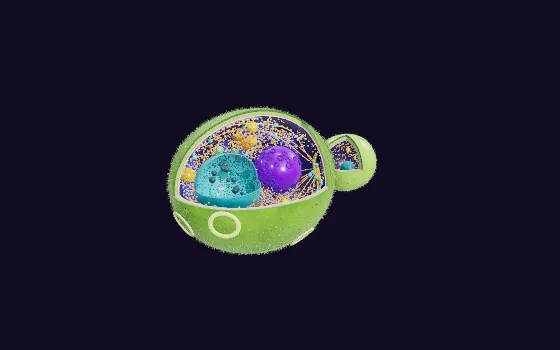
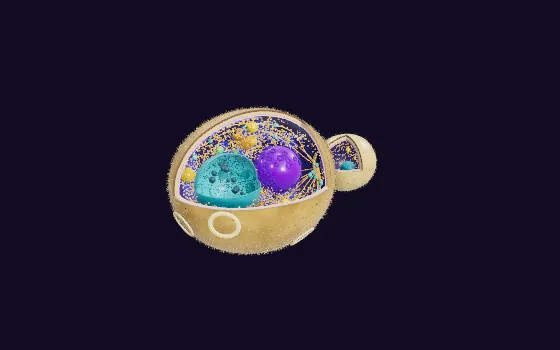
3D celice: bež stena kvasovke (gliva ne fotosintetizira), močnejše telo nevrona
Claude-Session: https://claude.ai/code/session_01SUDXUF91UxdHkHkcmruf3g

Changed region(s): [[0.3036, 0.2857, 0.6679, 0.7429]]

diff --git a/public/3d/modeli/celice/kvasovka.js b/public/3d/modeli/celice/kvasovka.js
@@ -217,7 +217,9 @@ export function zgradi(THREE, ctx = {}) {
 
   // ---------- matična celica: stena, membrana, citoplazma ----------
   const P0 = profMati(0);
-  const stc = new THREE.Color(), st1 = new THREE.Color(B.stena).lerp(new THREE.Color(B.stenaTemna), 0.3), st2 = new THREE.Color(B.stenaTemna).multiplyScalar(0.85);
+  // gliva: stena iz glukanov in hitina je bež (ne zelena kot pri rastlinah, ki fotosintetizirajo)
+  const STENA = "#d2ad6e", STENA_T = "#8f6a36";
+  const stc = new THREE.Color(), st1 = new THREE.Color(STENA), st2 = new THREE.Color(STENA_T);
   const barvaSt = (v) => stc.copy(st1).lerp(st2, 0.5 + 0.5 * fbm(v.x * 14, v.y * 14, v.z * 14));
   const stenaMat = mat(0xffffff, { vertexColors: true, roughness: 0.42, clearcoat: 0.7, sheen: 0.5 });
   const rezMat = mat(0xffffff, { vertexColors: true, roughness: 0.55, clearcoat: 0.45, side: THREE.DoubleSide });
@@ -226,7 +228,7 @@ export function zgradi(THREE, ctx = {}) {
   memMat.userData.rez = true;
   // prerez po plasteh: stena (zunaj manoproteini, znotraj glukani s hitinom) in membrana (lipidni dvosloj)
   const plasti = (PP, meje, barve, rI = n1) => zdruzi(meje.slice(0, -1).map((a, i) => vrtRez(PP, nK, rI, a, meje[i + 1], sumF)), barve);
-  const stenaRez = (PP, k = 1, rI = n1) => plasti(PP, [0, 0.009 * k, 0.0115 * k, (ZS - 0.0015) * k, ZS * k], [0x3f6b14, 0x2c4d0c, 0x8cc63f, 0x4f7f1c], rI);
+  const stenaRez = (PP, k = 1, rI = n1) => plasti(PP, [0, 0.009 * k, 0.0115 * k, (ZS - 0.0015) * k, ZS * k], [0x6e4a20, 0x4f3414, 0xdcbb7c, 0x8c6430], rI);
   const memRez = (PP, k = 1, rI = n1) => plasti(PP, [ZS * k, (ZS + 0.002) * k, (ZM - 0.002) * k, ZM * k], [0x6b3fc8, new THREE.Color(B.dvosloj).getHex(), 0x6b3fc8], rI);
   const citMat = mat(0x3d3180, { roughness: 0.62, clearcoat: 0.25, sheen: 0.35, sheenColor: new THREE.Color(0x8d7ee0), side: THREE.BackSide });
   const mS = vrtenina(P0, nK, rezM, 0, sumF);
@@ -242,18 +244,18 @@ export function zgradi(THREE, ctx = {}) {
   const B1 = profBrst(1, RNK);
   const bStenaMat = mat(0xffffff, { vertexColors: true, roughness: 0.5, clearcoat: 0.55, sheen: 0.5 });
   const bS = vrtenina(B1.P, nK, n1, 0, sumF);
-  pobarvaj(bS.g, (v) => barvaSt(v).lerp(new THREE.Color(0xc6ec8a), 0.4)); // mlada stena je svetlejša
+  pobarvaj(bS.g, (v) => barvaSt(v).lerp(new THREE.Color(0xf2dfae), 0.4)); // mlada stena je svetlejša
   const bStena = new THREE.Mesh(bS.g, bStenaMat);
   const bRez = new THREE.Mesh(new THREE.BufferGeometry(), rezMat);
   const bMem = new THREE.Mesh(new THREE.BufferGeometry(), memMat);
   const bC = vrtenina(B1.P, nK, n1, ZC, sumF);
   const bCit = new THREE.Mesh(bC.g, citMat);
-  const vrat = new THREE.Mesh(new THREE.TorusGeometry(RNK, 0.011, q(8), q(40)).rotateY(Math.PI / 2), mat(0xe3f0b0, { roughness: 0.4, clearcoat: 0.7 }));
+  const vrat = new THREE.Mesh(new THREE.TorusGeometry(RNK, 0.011, q(8), q(40)).rotateY(Math.PI / 2), mat(0xf4e8c8, { roughness: 0.4, clearcoat: 0.7 }));
   group.add(bStena, bRez, bMem, bCit, vrat);
 
   // ---------- brazgotine po prejšnjih brstih ----------
   const brz = [[2.3, 1.85], [2.75, 2.85], [1.25, 2.35]];
-  const brzM = new THREE.InstancedMesh(new THREE.TorusGeometry(0.075, 0.013, q(8), q(30)).scale(1, 1, 0.5), mat(0xe3f0b0, { roughness: 0.4, clearcoat: 0.7 }), brz.length);
+  const brzM = new THREE.InstancedMesh(new THREE.TorusGeometry(0.075, 0.013, q(8), q(30)).scale(1, 1, 0.5), mat(0xf4e8c8, { roughness: 0.4, clearcoat: 0.7 }), brz.length);
   const brzT = [];
   brz.forEach(([u, v], i) => {
     const p = v3(M.x + AXm * Math.cos(u), Rm * Math.sin(u) * Math.cos(v), Rm * Math.sin(u) * Math.sin(v));
@@ -440,7 +442,7 @@ export function zgradi(THREE, ctx = {}) {
 
   // ---------- manoproteini: gost puh vlaken na zunanji strani stene ----------
   const fibGeo = new THREE.CylinderGeometry(0.0008, 0.0013, 1, hi ? 4 : 3, 1, true).translate(0, 0.5, 0);
-  const fibMat = mat(0x9fcf5c, { roughness: 0.4, clearcoat: 0.6, emissive: new THREE.Color(0x10200a) });
+  const fibMat = mat(0xd9b57c, { roughness: 0.4, clearcoat: 0.6, emissive: new THREE.Color(0x201408) });
   function puh(tt, m0) {
     const im = new THREE.InstancedMesh(fibGeo, fibMat, tt.length);
     tt.forEach((t, i) => {
@@ -467,15 +469,15 @@ export function zgradi(THREE, ctx = {}) {
   brstG.add(krpice);
 
   // ---------- deli ----------
-  del("celicna-stena", "Celična stena", "Čvrsta plast iz glukanov in nekaj hitina; na zunanji strani (v prerezu temnejši pas) so manoproteini, ki štrlijo kot puh. Celico ščiti in ji daje obliko. Debelina je povečana.", B.stena, [mStena, mRez, bRez, vrat, manM, manB],
+  del("celicna-stena", "Celična stena", "Čvrsta plast iz glukanov in nekaj hitina; na zunanji strani (v prerezu temnejši pas) so manoproteini, ki štrlijo kot puh. Celico ščiti in ji daje obliko. Debelina je povečana.", STENA, [mStena, mRez, bRez, vrat, manM, manB],
     vrtTocka(P0, n1 + 6, Math.PI * 0.62, 0, sumF, v3()).toArray());
   del("membrana", "Celična membrana", "Dvosloj fosfolipidov tik pod steno, ki uravnava prehod snovi v celico in iz nje; tanjši je od stene. Debelina je povečana.", B.dvosloj, [mMem, bMem], vrtTocka(P0, Math.round(n1 * 0.55), 0.03, (ZS + ZM) / 2, sumF, v3()).toArray());
   del("citoplazma", "Citoplazma", "Tekočina v celici z ribosomi in organeli; v njej poteka tudi alkoholno vrenje, pri katerem iz sladkorja nastaneta alkohol in ogljikov dioksid.", "#5b4bb0", [mCit, bCit],
     vrtTocka(P0, Math.round(n1 * 0.6), Math.PI * 1.3, ZC + 0.003, sumF, v3()).toArray());
-  const brstDel = { id: "brst", ime: "Brst (hčerinska celica)", opis: "Izboklina, ki zraste iz matične celice; ko je dovolj velika in dobi svoje jedro, se odcepi kot nova kvasovka.", barva: "#c6ec8a", meshes: [bStena], tocka: [0, 0, 0] };
+  const brstDel = { id: "brst", ime: "Brst (hčerinska celica)", opis: "Izboklina, ki zraste iz matične celice; ko je dovolj velika in dobi svoje jedro, se odcepi kot nova kvasovka.", barva: "#ecd6a0", meshes: [bStena], tocka: [0, 0, 0] };
   bStena.userData.del = "brst";
   deli.push(brstDel);
-  del("brazgotine", "Brazgotine po brstenju", "Obročki iz hitina na steni matične celice: vsak ostane po enem odcepljenem brstu, zato po njih preštejemo, kolikokrat je celica brstela.", "#e3f0b0", [brzM], brzT[0].toArray());
+  del("brazgotine", "Brazgotine po brstenju", "Obročki iz hitina na steni matične celice: vsak ostane po enem odcepljenem brstu, zato po njih preštejemo, kolikokrat je celica brstela.", "#f4e8c8", [brzM], brzT[0].toArray());
   const jedroDel = { id: "jedro", ime: "Jedro", opis: "Hrani DNK. Pri brstenju se podaljša skozi vrat brsta in razdeli; eno jedro ostane v matični celici, drugo preide v brst.", barva: B.jedro, meshes: [jM, jH, most], tocka: [0, 0, 0] };
   for (const m of jedroDel.meshes) m.userData.del = "jedro";
   deli.push(jedroDel);
@@ -595,7 +597,7 @@ export function zgradi(THREE, ctx = {}) {
     aktin: { tex: null },
   });
   // stikalo »Barve kot v učbeniku« (po poliranju, da shrani končne barve)
-  nadzor.push(V.barveUcbenika(vsiDeli, { brst: "#7cb84a", brazgotine: "#c9b27a", er: "#4f95e8", "lipidne-kapljice": "#f5c842", peroksisomi: "#bcd83a", aktin: "#d94f4f" }));
+  nadzor.push(V.barveUcbenika(vsiDeli, { "celicna-stena": "#c99a55", brst: "#e3c58a", brazgotine: "#8a6430", er: "#4f95e8", "lipidne-kapljice": "#f5c842", peroksisomi: "#bcd83a", aktin: "#d94f4f" }));
 
   return {
     group,

diff --git a/public/3d/modeli/celice/nevron.js b/public/3d/modeli/celice/nevron.js
@@ -220,7 +220,7 @@ export function zgradi(THREE, ctx = {}) {
     return RS * (1 + b + 0.045 * fbm(d.x * 2.2 + 1, d.y * 2.2, d.z * 2.2));
   };
   const soma = lupina(oblS, hi ? 120 : 56, hi ? 72 : 38);
-  const somaMat = V.steklo(mat(B.membrana, { side: THREE.FrontSide }), { a: 0.14, rf: 90, k: 0.9, rob: B.membranaRob, rk: 1.35 });
+  const somaMat = V.steklo(mat(B.membrana, { side: THREE.FrontSide }), { a: 0.24, rf: 90, k: 0.9, rob: B.membranaRob, rk: 1.7, difuzno: 0.2 });
   const somaOut = new THREE.Mesh(soma.odprta, somaMat);
   const citMat = notranja();
   const MS = 0.93; // debelina membrane v prerezu (povečana): ≈ 7 % polmera some
@@ -408,7 +408,7 @@ export function zgradi(THREE, ctx = {}) {
   dSmeri.forEach((u, i) => veja(S.clone().addScaledVector(u, RS * 1.45), u, 0.15 + (i % 3) * 0.02, 0.034, 0));
   // začetki dendritov, ki segajo v notranjost some, odrežemo (sicer bi skozi steklo videli njihove konce)
   const dendGeo = odrezi(zdruzi(dGeo), (p) => { const d = p.clone().sub(S); return d.length() < oblS(d.normalize()) * MS; });
-  const dendriti = new THREE.Mesh(dendGeo, steklo(0.22));
+  const dendriti = new THREE.Mesh(dendGeo, steklo(0.28));
   const dendIn = new THREE.Mesh(dendGeo, notranja());
   // dendritni trni: drobne gobaste izbokline, na katerih so sinapse
   const trnGeo = new THREE.IcosahedronGeometry(0.0042, 0);
